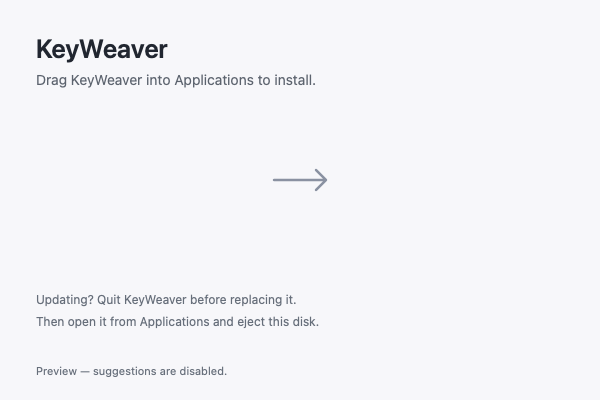
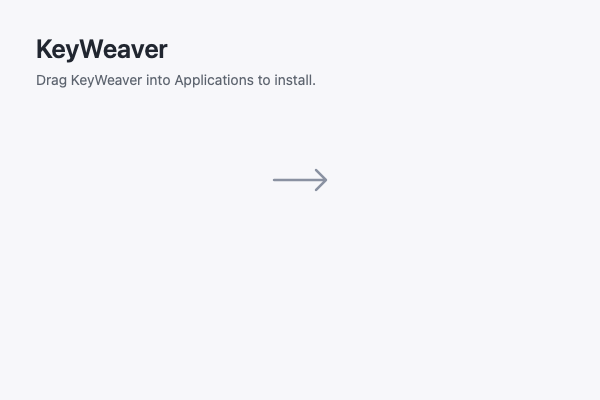
chore(release): continue 2.2.0 versioning and clean DMG layout

Changed region(s): [[0.06, 0.72, 0.54, 0.84], [0.15, 0.9, 0.39, 0.96], [0.06, 0.9, 0.12, 0.96]]

diff --git a/Scripts/make-dmg-background.swift b/Scripts/make-dmg-background.swift
@@ -42,10 +42,6 @@ for scale in [1, 2] {
     arrow.lineJoinStyle = .round
     NSColor(srgbRed: 0.54, green: 0.57, blue: 0.63, alpha: 1).setStroke()
     arrow.stroke()
-    let muted = NSColor(srgbRed: 0.40, green: 0.43, blue: 0.48, alpha: 1)
-    text("Updating? Quit KeyWeaver before replacing it.", x: 36, top: 292, size: 12, color: muted)
-    text("Then open it from Applications and eject this disk.", x: 36, top: 314, size: 12, color: muted)
-    text("Preview — suggestions are disabled.", x: 36, top: 364, size: 11, color: muted)
     NSGraphicsContext.restoreGraphicsState()
     let output = directory.appendingPathComponent(scale == 1 ? "background.png" : "background@2x.png")
     let data = NSMutableData()

diff --git a/Scripts/tests/test_release_packaging.py b/Scripts/tests/test_release_packaging.py
@@ -224,7 +224,7 @@ if args[:2]==["-m","venv"]:
             (app / relative).mkdir(parents=True)
         (app / "Contents/Info.plist").write_bytes(plistlib.dumps({
             "CFBundleIdentifier": "dev.anuhas.keyweave", "CFBundleExecutable": "KeyWeaver",
-            "CFBundleShortVersionString": "0.1.0"
+            "CFBundleShortVersionString": "2.2.0"
         }))
         (app / "Contents/MacOS/KeyWeaver").write_bytes(b"synthetic signed executable")
         (app / "Contents/Resources/AppIcon.icns").write_bytes(b"synthetic volume icon")
@@ -301,12 +301,12 @@ elif args[0]=="detach":
         detaches = [call["args"][1] for call in calls if call["tool"] == "hdiutil" and call["args"][0] == "detach"]
         self.assertIn("/dev/disk999", detaches)
         self.assertNotIn("/dev/disk888", detaches)
-        self.assertEqual((self.root / "dist/KeyWeaver-0.1.0-arm64.dmg").read_bytes(), b"synthetic dmgbuild image")
-        self.assertFalse((self.root / "dist/KeyWeaver-0.1.0-arm64.dmg.lock").exists())
+        self.assertEqual((self.root / "dist/KeyWeaver-2.2.0-arm64.dmg").read_bytes(), b"synthetic dmgbuild image")
+        self.assertFalse((self.root / "dist/KeyWeaver-2.2.0-arm64.dmg.lock").exists())
 
     def test_existing_dmg_is_never_overwritten(self):
         _, environment = self.make_dmg_fixture()
-        image = self.root / "dist/KeyWeaver-0.1.0-arm64.dmg"
+        image = self.root / "dist/KeyWeaver-2.2.0-arm64.dmg"
         image.write_bytes(b"existing accepted image")
         result = self.run_script("package.sh", environment)
         self.assertNotEqual(result.returncode, 0)
@@ -317,9 +317,9 @@ elif args[0]=="detach":
 
     def test_final_verification_mounts_only_a_private_copy_and_detaches_it(self):
         app, environment = self.make_dmg_fixture()
-        image = self.root / "dist/KeyWeaver-0.1.0-arm64.dmg"
+        image = self.root / "dist/KeyWeaver-2.2.0-arm64.dmg"
         image.write_bytes(b"synthetic accepted image")
-        archive = self.root / "dist/KeyWeaver-0.1.0-arm64.zip"
+        archive = self.root / "dist/KeyWeaver-2.2.0-arm64.zip"
         with zipfile.ZipFile(archive, "w") as packaged:
             for path in app.rglob("*"):
                 if path.is_file(): packaged.write(path, str(path.relative_to(app.parent)))

diff --git a/docs/implementation/keyweaver-2.2.0.md b/docs/implementation/keyweaver-2.2.0.md
@@ -1,0 +1,56 @@
+# KeyWeaver 2.2.0 verification
+
+Version/build: `2.2.0` / `13`, Apple Silicon, macOS 14 or later. Target tag/title: `v2.2.0` / **KeyWeaver 2.2.0**, published as a normal GitHub release marked Latest. This continues inherited TabType `2.1.0`/build `11`; the `0.1.0`/build `12` isolation release and its remote preview tag were withdrawn. Signed build, model-enabled tests, controlled typing and local distribution checks passed as recorded below. GitHub publication and anonymous download checks are recorded in the release notes.
+
+## Why the previous installation looked broken
+
+The withdrawn app passed signature, notarization-ticket and Gatekeeper checks and matched its published executable. Those checks established distribution integrity, not a working autocomplete journey. Its menu-bar-only startup opened no setup window, had no reopen handler, hard-disabled input monitoring and left model startup empty. Merging the isolation PRs preserved those restrictions; it did not activate the inherited completion engine. Two controlled launches of the old installed executable stayed alive for five seconds with zero visible app windows. This reproduced hidden startup; neither controlled run crashed.
+
+## Restored behavior
+
+- Launch visibly opens Settings on Setup. Opening an already running app brings back the same Settings window, including after it was closed or its menu icon was hidden.
+- Basic input monitoring is available. Startup checks Accessibility trust without requesting it automatically; the user grants permission explicitly. Monitoring starts after trust is granted and stops when trust is revoked. Setup/readiness must also reflect whether the input monitor actually starts, rather than treating trust alone as success.
+- Model constructors and Settings getters remain passive. Explicit startup loads the selected, fully installed KeyWeaver model once. Missing, partial, truncated or deleted-custom selections do not start downloads or resume transfers. Invalid/unknown selections surface recoverable setup errors. Manual model selection/download remains available.
+- Core completion reads the focused editable field after Accessibility permission. Screen Recording is not required for that basic path. Secure-field exclusion and inherited app/domain controls remain in place.
+- Optional screen context, screenshot appearance capture, clipboard context, writing memory, sync and login registration remain disabled. Automatic app updates, remote model-catalog refresh, automatic model-download resume, writing-import consumption, OCR diagnostics and global macOS preference changes remain disabled.
+- `dev.anuhas.keyweave` preferences, support/cache/log/model paths, Keychain service and cloud namespace remain isolated. No automatic TabType/Cotypist data or model migration occurs. Upstream MIT and bundled third-party notices are retained.
+
+## Installer and release presentation
+
+The DMG still uses Yeelight Station's pinned **dmgbuild 1.6.7** method, HFS+/UDZO and app/Applications layout. All three former footer lines were removed, including the updating/quit instructions and preview-disabled message. The app name, drag-to-Applications instruction and arrow remain. Both 600×400 and 1200×800 backgrounds are regenerated from the native source; the entire former footer region is verified blank at both scales.
+
+A tag alone is not a GitHub release. The replacement must be a published release with `isDraft=false`, `isPrerelease=false` and explicit Latest selection, verified through GitHub's latest-release endpoint. See the [release runbook](../runbooks/releasing.md) for the exact recipe. Historical upstream tags are preserved without manufacturing release entries for them.
+
+## Verification status — 2026-10-30
+
+| Check | Actual result |
+| --- | --- |
+| Full native suite with model | **209 cases — 203 passed, six skipped, zero failures** on the final source. App: 96 cases/two skips; Kit: 113 cases/four skips. Includes the final input-monitor failure-status regression and an application-level local-completion integration test. |
+| Real model-backed inference | Eight of nine `LlamaIntegrationTests` passed with the approved 396,705,184-byte Qwen3-0.6B-Base i1 Q4_K_M GGUF outside git. Includes tokenization, prefix reuse/splice, deterministic partial-word healing, selected-word alternatives, invalid-adapter recovery, superseded-request cancellation and parked-model reload. Adapter-change fixture remains unavailable. |
+| Startup/model regressions | Permission denial, successful input startup, actual Settings reopening, passive constructors/getters, missing/partial/truncated/deleted-custom model states, unknown selection and load failure are covered through public seams. Failed keyboard-monitor creation returns an explicit failed state; Setup requires actual active monitoring before declaring readiness. |
+| Packaging command-boundary suite | **14 passed**, zero failures. Synthetic platform tools; no actual signing, mounting or Apple connection from this suite. |
+| Rendered DMG backgrounds | Old image failed the independent blank-footer check with 3,830 non-background pixels; regenerated 1×/2× images both have **zero** non-background footer pixels and correct dimensions. |
+| Final Release build and signature | Xcode Release build succeeded for `2.2.0`/`13`; Developer ID Application **Arno & Co. LLC**, team `FMS4W53T57`, Hardened Runtime, secure timestamp and strict publisher/bundle requirements passed. |
+| App and DMG notarization/stapling | Both **Accepted**, stapled and validated; Gatekeeper accepted. App job `5d7fc90e-fd87-41ab-9dd3-d5b42db6f8a6`; DMG job `e3bcc7fd-c732-4519-99be-1a158fc3cae3`. |
+| Packaged-app setup/reopen and synthetic accept journey | Signed app opened a normal **760×648** Settings window. Native tests exercised repeated close/reopen. With a verified local model and existing Accessibility trust, global synthetic typing produced a painted ghost and Tab acceptance in an owned NSTextView. All 16 sentinel files remained unchanged; both owned processes stopped. |
+| Final DMG/ZIP extraction and hashes | Read-only mounted DMG and fresh ZIP extraction passed strict signature, publisher, ticket and Gatekeeper checks and matched the accepted app executable/resource seal. Final hashes are below. Public download results are recorded in GitHub release notes after publication. |
+
[1 lines of base64/hex data omitted]
+
+## Final artifact fingerprints
+
+| Artifact | SHA-256 |
+| --- | --- |
[3 lines of base64/hex data omitted]
+
+The synthetic host journey typed `The capital of France is` and accepted ` the`. This verifies the live typing/ghost/Tab insertion mechanism, not factual correctness or broad writing quality. The separate application-level completion integration test continued the bare synthetic sentence with `Paris`. The smaller test model and different metadata/context are disclosed; no general model-quality claim follows.
+
+Native command: `KEYWEAVE_TEST_MODEL=<approved-external-model.gguf> Scripts/test.sh`. Packaging regression command: `python3 Scripts/tests/test_release_packaging.py -v`. Actual signed build, notarization and DMG commands follow the [release runbook](../runbooks/releasing.md). Raw platform receipts and temporary synthetic harnesses remain outside git. The documentation validator retained exactly the same 16 working-tree diagnostics before/after this maintenance (15 established tracked baseline diagnostics plus an ignored Finder metadata diagnostic); documentation validation is not green, and unrelated documentation was not reorganized.
+
+## Limits and remaining evidence
+
+This work restores core behavior instead of merely removing preview labels. It does not certify Cotypist Pro/Labs parity, optional acquisition services, broad app compatibility, model quality or cross-Mac sync. Synthetic inference and unit tests establish narrower behavior than daily writing. Release notes name the packaged-app journeys actually run, test skips, final fingerprints and accepted notarization IDs. Finder-launched KeyWeaver needs its own Accessibility grant and local model setup; TabType permissions and models are not automatically migrated.
+
+The [withdrawn build report](keyweaver-preview.md) remains historical. The [AX fallback report](ax-context-fallback.md), [Gate 0 report](gate0-isolation.md) and [milestone](../MILESTONE.md) retain their respective research/isolation and future-acceptance boundaries. Raw signing/notary receipts, local paths and synthetic host captures remain outside public git.

diff --git a/docs/runbooks/releasing.md b/docs/runbooks/releasing.md
@@ -1,6 +1,6 @@
-# Releasing KeyWeaver previews
+# Releasing KeyWeaver
 
-KeyWeaver is distributed from [DevAnuhas/keyweave](https://github.com/DevAnuhas/keyweave/releases) as an Apple Silicon macOS app. Internal Swift module names and persistent `dev.anuhas.keyweave` namespaces remain stable. A preview release must say that input monitoring and context/learning/sync capabilities remain gated off; signing and notarization do not establish completion quality or Cotypist parity.
+KeyWeaver is distributed from [DevAnuhas/keyweave](https://github.com/DevAnuhas/keyweave/releases) as an Apple Silicon macOS app. Version `2.2.0` continues the inherited TabType `2.1.0` version line. Internal Swift module names and persistent `dev.anuhas.keyweave` namespaces remain stable. Release acceptance requires working setup/reopening and permission-aware local completion, not just a successful signature or build. Optional screen/clipboard context, writing history and sync must remain off until their explicit consent controls and behavior are verified. Signing and notarization do not establish Cotypist parity.
 
 ## Prerequisites
 
@@ -18,7 +18,7 @@ Scripts/setup-dmg.sh
 
 `DMG_WHEELHOUSE=/path/to/pinned/wheels Scripts/setup-dmg.sh` uses `--no-index` with local wheels for an offline setup. Both paths enforce `--require-hashes --only-binary=:all:`. Packaging never installs dependencies automatically. An existing environment can instead be selected through `DMGBUILD_VENV`; packaging reads it without writing Python bytecode and checks all three versions. No other-project path is hardcoded.
 
-[The layout](../../packaging/dmg/settings.py) uses KeyWeaver's signed `AppIcon.icns` as the custom volume icon, the committed 600×400 background and 1200×800 Retina companion, a 600×500 Finder window, app at `(150, 180)`, Applications at `(450, 180)`, and `License.txt` at `(520, 320)`, with 80-point icons and 13-point labels. No FinderInfo extension flags are applied to the signed app. `dmgbuild` temporary backing images stay inside a private stage; cleanup only detaches images whose backing paths are inside that stage. A per-output lock prevents overlapping package operations. Failed cleanup preserves the stage and lock for inspection.
+[The layout](../../packaging/dmg/settings.py) uses KeyWeaver's signed `AppIcon.icns` as the custom volume icon, the committed 600×400 background and 1200×800 Retina companion, a 600×500 Finder window, app at `(150, 180)`, Applications at `(450, 180)`, and `License.txt` at `(520, 320)`, with 80-point icons and 13-point labels. The background contains the app name, drag-to-Applications instruction and arrow; it has no updating or preview footer. Regenerate both PNGs with `swift Scripts/make-dmg-background.swift packaging/dmg` after changing the background source. No FinderInfo extension flags are applied to the signed app. `dmgbuild` temporary backing images stay inside a private stage; cleanup only detaches images whose backing paths are inside that stage. A per-output lock prevents overlapping package operations. Failed cleanup preserves the stage and lock for inspection.
 
 ## Build and notarize
 
@@ -35,11 +35,11 @@ Scripts/setup-dmg.sh
 RELEASE=1 CONFIG=Release Scripts/build.sh app
 Scripts/notarize.sh app dist/KeyWeaver.app
 Scripts/package.sh
-Scripts/notarize.sh dmg dist/KeyWeaver-0.1.0-arm64.dmg
+Scripts/notarize.sh dmg dist/KeyWeaver-2.2.0-arm64.dmg
 Scripts/package.sh --verify
 ```
 
-Use the version in `Resources/Info.plist` in the two asset paths; `0.1.0` is the first preview version. `Scripts/release.sh` runs those local build/notary/package steps in order when all three configuration variables exist. It never tags, pushes or creates a GitHub release. The app build signs `llama.framework` and then the app explicitly, inside-out, with Hardened Runtime and secure timestamps. Release identity/configuration failures stop before building. Every release signature must satisfy Apple's Developer ID certificate OID, expected team and isolated bundle identity; no ad-hoc fallback exists in release mode.
+Use the version in `Resources/Info.plist` in the asset paths. `2.2.0` uses build `13`, after inherited `2.1.0`/build `11` and the withdrawn isolation build `12`. `Scripts/release.sh` runs those local build/notary/package steps in order when all three configuration variables exist. It never tags, pushes or creates a GitHub release. The app build signs `llama.framework` and then the app explicitly, inside-out, with Hardened Runtime and secure timestamps. Release identity/configuration failures stop before building. Every release signature must satisfy Apple's Developer ID certificate OID, expected team and isolated bundle identity; no ad-hoc fallback exists in release mode.
 
 The app must have an **Accepted** notary status and matching authoritative log before stapling. The helper verifies the ticket/signature and Gatekeeper, then recreates `KeyWeaver-<version>-arm64.zip` from the stapled app, with MIT `LICENSE` alongside it. ZIP files cannot themselves be stapled. The dmgbuild DMG contains that app, an Applications link and the same MIT notice named `License.txt`; the container is signed and notarized separately. Final verification mounts the DMG read-only, checks the mounted app and compares its executable/resource seal to the accepted source app. It also extracts and verifies the ZIP. `SHA256SUMS.txt` is written only after both final artifacts pass those checks.
 
@@ -49,7 +49,7 @@ Notary submissions run once. Each private receipt binds the artifact's code-dire
 
 ```sh
 Scripts/notarize.sh app dist/KeyWeaver.app --resume <private-app-receipt>
-Scripts/notarize.sh dmg dist/KeyWeaver-0.1.0-arm64.dmg --resume <private-dmg-receipt>
+Scripts/notarize.sh dmg dist/KeyWeaver-2.2.0-arm64.dmg --resume <private-dmg-receipt>
 ```
 
 Do not rerun the complete release build after a timeout. If upload returned no ID, inspect that receipt and the account's submission history before taking another action. Existing same-signature receipts block automatic reupload, and resumed receipts never submit again. Rejected/Invalid status preserves Apple's log and stops. Changed source artifacts or corrupted preserved submissions fail closed. A failed DMG staple operates on a private copy and leaves the distribution image unchanged.
@@ -58,10 +58,19 @@ Do not rerun the complete release build after a timeout. If upload returned no I
 
 ## Publish and verify
 
-After reviewing the exact source tree, license, native test results, signed bundle, Accepted app/DMG receipts, mounted/extracted app checks and final hashes, create an annotated release tag on that source commit. The first preview tag is `v0.1.0-preview.1`. Publish it as a GitHub **prerelease**, attaching only:
+After reviewing the exact source tree, license, native test results, setup/reopen and synthetic completion journeys, signed bundle, Accepted app/DMG receipts, mounted/extracted app checks and final hashes, create an annotated `v2.2.0` release tag on that source commit. Publish a normal GitHub release titled **KeyWeaver 2.2.0**, marked **Latest**, attaching only:
 
-- `KeyWeaver-0.1.0-arm64.dmg`
-- `KeyWeaver-0.1.0-arm64.zip`
+- `KeyWeaver-2.2.0-arm64.dmg`
+- `KeyWeaver-2.2.0-arm64.zip`
 - `SHA256SUMS.txt`
 
-Use explicit release notes describing disabled capabilities, tested macOS/architecture and unresolved quality/compatibility checks. Do not mark the preview as stable or claim parity. Download the public assets anonymously after publication, compare their SHA-256 values to the final local files and checksums, and verify a fresh extracted app's ticket/signature. Keep raw notary receipts and credentials outside git. Preserve the upstream MIT notice and third-party acknowledgments.
+```sh
+gh release create v2.2.0 \
+    dist/KeyWeaver-2.2.0-arm64.dmg \
+    dist/KeyWeaver-2.2.0-arm64.zip dist/SHA256SUMS.txt \
+    --repo DevAnuhas/keyweave --verify-tag \
+    --title 'KeyWeaver 2.2.0' --prerelease=false --latest=true \
+    --notes-file /private/path/to/release-notes.md
+```
+
+Use release notes describing actual enabled behavior, optional capabilities still disabled, tested macOS/architecture and unresolved quality/compatibility checks. A tag alone is not a GitHub release; a prerelease does not become Latest. Confirm that the published release has `isDraft=false`, `isPrerelease=false` and is returned by `repos/DevAnuhas/keyweave/releases/latest`. Do not fabricate releases for inherited historical tags or claim parity. Download the public assets anonymously after publication, compare their SHA-256 values to the final local files and checksums, and verify a fresh extracted app's ticket/signature. Keep raw notary receipts and credentials outside git. Preserve the upstream MIT notice and third-party acknowledgments.

diff --git a/CONTEXT.md b/CONTEXT.md
@@ -10,8 +10,9 @@ The target remains useful Cotypist capabilities, including Pro/Labs writing feat
 
 - Public repository: https://github.com/DevAnuhas/keyweave.
 - Gate 0 PRs #3–#6, bootstrap PR #2 and AX-fallback PR #7 are merged. Native isolation tests, synthetic launch and Settings reopening evidence are in [implementation reports](docs/README.md).
-- Preview line: `0.1.0`/build `12`, tag `v0.1.0-preview.1`, Apple Silicon/macOS 14+. It introduces original app/logo/menu artwork and a Developer ID/notarization pipeline. Actual signed/stapled artifacts and receipts establish release acceptance; see the [verification report](docs/implementation/keyweaver-preview.md), [runbook](docs/runbooks/releasing.md) and GitHub release notes.
-- Input monitoring/suggestions, context capture, clipboard context, writing memory, sync, login registration and automatic updates remain off. The preview is not a usable daily autocomplete build. Existing explicit manual model actions remain available; a model download does not enable suggestions.
+- Current release target: `2.2.0`/build `13`, normal `v2.2.0` GitHub release marked Latest, continuing inherited `2.1.0`. The `v0.1.0-preview.1` release/tag were withdrawn. See [2.2.0 verification status](docs/implementation/keyweaver-2.2.0.md) and the [release runbook](docs/runbooks/releasing.md); signed/notarized distribution and controlled writing evidence are recorded there.
+- Core input monitoring is enabled. Launch opens Setup, reopening shows the cached Settings window, Accessibility permission gates monitoring, and the selected installed KeyWeaver model loads once at startup. Readiness requires an active input monitor and loaded model. No automatic model download/resume or remote catalog refresh is restored.
+- Optional screen/clipboard context, writing memory, sync, login registration and automatic updates remain off. Existing manual model actions remain available. The full native run with an approved external GGUF model completed 209 cases (203 passed, six skipped, zero failures). Final Release signing/notarization, visible setup and synthetic typing/Tab acceptance passed.
 - Isolated bundle ID is `dev.anuhas.keyweave`. No automatic upstream data access/migration, global macOS preference write, model resume or OCR diagnostic is permitted. [Gate 0 boundary](docs/implementation/gate0-isolation.md).
 - The shared context-source reader now allows eligible AX text without Screen Recording and skips OCR entirely when denied. Its production wiring is tested with synthetic readers; enabled live AX/OCR acquisition remains unverified. [AX fallback evidence](docs/implementation/ax-context-fallback.md).
 - Existing model, personalization, instructions, mid-line, alternatives, synonyms and sync implementations are retained. Verify concrete gaps instead of rebuilding them.
@@ -19,6 +20,6 @@ The target remains useful Cotypist capabilities, including Pro/Labs writing feat
 
 ## Next correctness boundaries
 
-Fail closed on capture app/window identity before enabling capture; then fix clipboard ownership/restoration, stale picker/selection identity, alternatives spacing and key lifecycle. Activation of retained services needs effective-consent and controlled-host evidence. Do not enable a service merely to make a preview look functional.
+Core startup and the controlled local-completion journey are verified for 2.2.0. Next, fail closed on capture app/window identity before enabling capture; fix clipboard ownership/restoration, stale picker/selection identity, alternatives spacing and key lifecycle. Activation of optional retained services needs effective-consent and controlled-host evidence.
 
 Keep Cotypist binaries/assets, personal writing, credentials, private notary receipts and analysis outside public git. Cotypist decompilation remains outside the authorized scope. No paid service or purchase is authorized by the release task.

diff --git a/README.md b/README.md
@@ -4,11 +4,13 @@
 
 An open-source, on-device macOS writing assistant, built from [TabType](https://github.com/nilava/TabType). The application code is MIT-licensed, with upstream attribution preserved. Bundled runtime, fonts, emoji and dictionary data retain their own included notices and licenses.
 
-**0.1.0 is an isolation and interface preview. Suggestions and input monitoring are disabled.** Screen/clipboard context, writing memory, sync, login registration and automatic app/model updates are also off. No model download or Accessibility/Screen Recording permission is needed to inspect the preview. This is not a Cotypist-parity release or a working daily autocomplete build.
+**KeyWeaver 2.2.0 continues the TabType 2.1.0 version line.** It restores core on-device autocomplete within KeyWeaver's isolated namespaces: opening the app shows Setup, reopening returns to Settings, and input monitoring starts after Accessibility permission is granted. A selected model already installed for KeyWeaver loads at startup. Missing models require an explicit Download action; startup does not download or resume transfers.
 
-[Download the preview](https://github.com/DevAnuhas/keyweave/releases/tag/v0.1.0-preview.1) · [Release checks and packaging](docs/runbooks/releasing.md) · [Implementation evidence](docs/README.md)
+[Download the latest release](https://github.com/DevAnuhas/keyweave/releases/latest) · [2.2.0 verification status](docs/implementation/keyweaver-2.2.0.md) · [Release checks and packaging](docs/runbooks/releasing.md)
 
-Requires Apple Silicon and macOS 14 or later. Download the arm64 DMG or ZIP, check `SHA256SUMS.txt`, and drag `KeyWeaver.app` into Applications. Model files are not included. Existing TabType/Cotypist stores are never automatically imported or migrated.
+Requires Apple Silicon and macOS 14 or later. Download the arm64 DMG or ZIP, check `SHA256SUMS.txt`, drag `KeyWeaver.app` into Applications and open it. In Setup, grant KeyWeaver its own Accessibility permission and choose/download a local model. Suggestions require the input monitor to be active and the model to be ready. Model files are not bundled; existing TabType/Cotypist stores and models are never automatically imported or migrated.
+
+Screen/clipboard context, writing memory, sync, login registration and automatic updates remain disabled while their consent and compatibility work is completed. Screen Recording is not required for basic completion in the focused text field. The withdrawn `0.1.0` isolation build is [historical evidence](docs/implementation/keyweaver-preview.md), not the current app. Cotypist feature parity and broad host compatibility remain unverified.
 
 ## Identity and artwork
 

diff --git a/docs/README.md b/docs/README.md
@@ -1,7 +1,8 @@
 # Project documentation
 
-- [KeyWeaver preview verification](implementation/keyweaver-preview.md): artwork, signed/notarized artifacts, test results, hashes and remaining limits.
+- [KeyWeaver 2.2.0 verification](implementation/keyweaver-2.2.0.md): restored core startup, model-backed tests, normal release versioning and distribution acceptance status.
 - [KeyWeaver release runbook](runbooks/releasing.md): fail-closed Developer ID signing, notarization, packaging and verification.
+- [Withdrawn isolation-preview evidence](implementation/keyweaver-preview.md): historical artwork/distribution checks for the removed 0.1.0 build; not current capability evidence.
 
 - [AX-context fallback](implementation/ax-context-fallback.md): first correctness slice after Gate 0; source-selection contract, synthetic tests and live-acquisition limits.
 - [Gate 0 isolation and verification](implementation/gate0-isolation.md): merged isolation boundary, native checks, first-launch evidence and remaining limits.

diff --git a/docs/implementation/keyweaver-preview.md b/docs/implementation/keyweaver-preview.md
@@ -1,5 +1,7 @@
 # KeyWeaver 0.1.0 preview
 
+> **Withdrawn:** the `v0.1.0-preview.1` GitHub release and remote tag were removed on 2026-10-30. This report preserves the original build's evidence; it does not describe current behavior. Continue with [KeyWeaver 2.2.0](keyweaver-2.2.0.md), which restores core startup and continues the inherited version line. The hashes and notarization IDs below apply only to the withdrawn artifacts.
+
 Release tag: `v0.1.0-preview.1`. App version/build: `0.1.0` / `12`. This is an Apple Silicon interface/isolation preview: suggestions and input monitoring are disabled. Context, clipboard context, writing memory, sync, login registration and automatic updates remain off. Signing/notarization does not establish feature parity or daily-use readiness.
 
 ## Artwork and packaging
